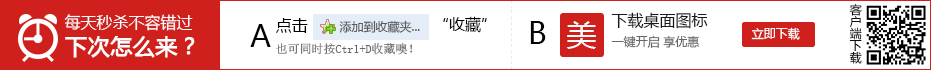
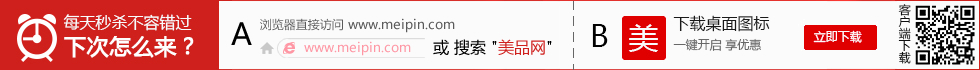
修改底部map

diff --git a/frontend/views/site/map.php b/frontend/views/site/map.php
@@ -33,8 +33,9 @@ var www_meipin_com = function (obj, url, title) {
 
 <div class="endmap"><div style="width:1000px; margin:0px auto;position:relative;"><img src="/static/images/endmap.jpg" usemap="#endMap" border="0" height="70" width="931" /><span class="mailodlist"><div class="rssbook light " style="width:auto "><div class="mailInput"></div></div></span></div>
 <span style="display:none"><map name="endMap" id="endMap">
-     <area shape="rect" coords="342,20,500,176" href="javascript:void(0);"onMouseDown="www_meipin_com(this, 'http://www.meipin.com', '美品网，畅想折扣新主张！')" target="_blank">
-    <area shape="rect" coords="500,20,700,176" href="http://g.meipin.com/site/xiazai" target="_self">
+<!--      <area shape="rect" coords="342,20,550,176" href="javascript:void(0);"onMouseDown="www_meipin_com(this, 'http://www.meipin.com', '美品网，畅想折扣新主张！')" target="_blank"> -->
+    <area shape="rect" coords="342,20,550,176" href="http://www.baidu.com/s?tn=baiduhome_pg&ie=utf-8&bs=%E7%BE%8E%E5%93%81%E7%BD%91&f=8&rsv_bp=1&rsv_spt=1&wd=%E7%BE%8E%E5%93%81%E7%BD%91&inputT=0" target="_blank">
+    <area shape="rect" coords="500,20,800,176" href="http://g.meipin.com/site/xiazai" target="_self">
     <area shape="rect" coords="677,21,992,174" href="http://meipin.com/site/phone" target="_blank">
 
   </map></span></div>
